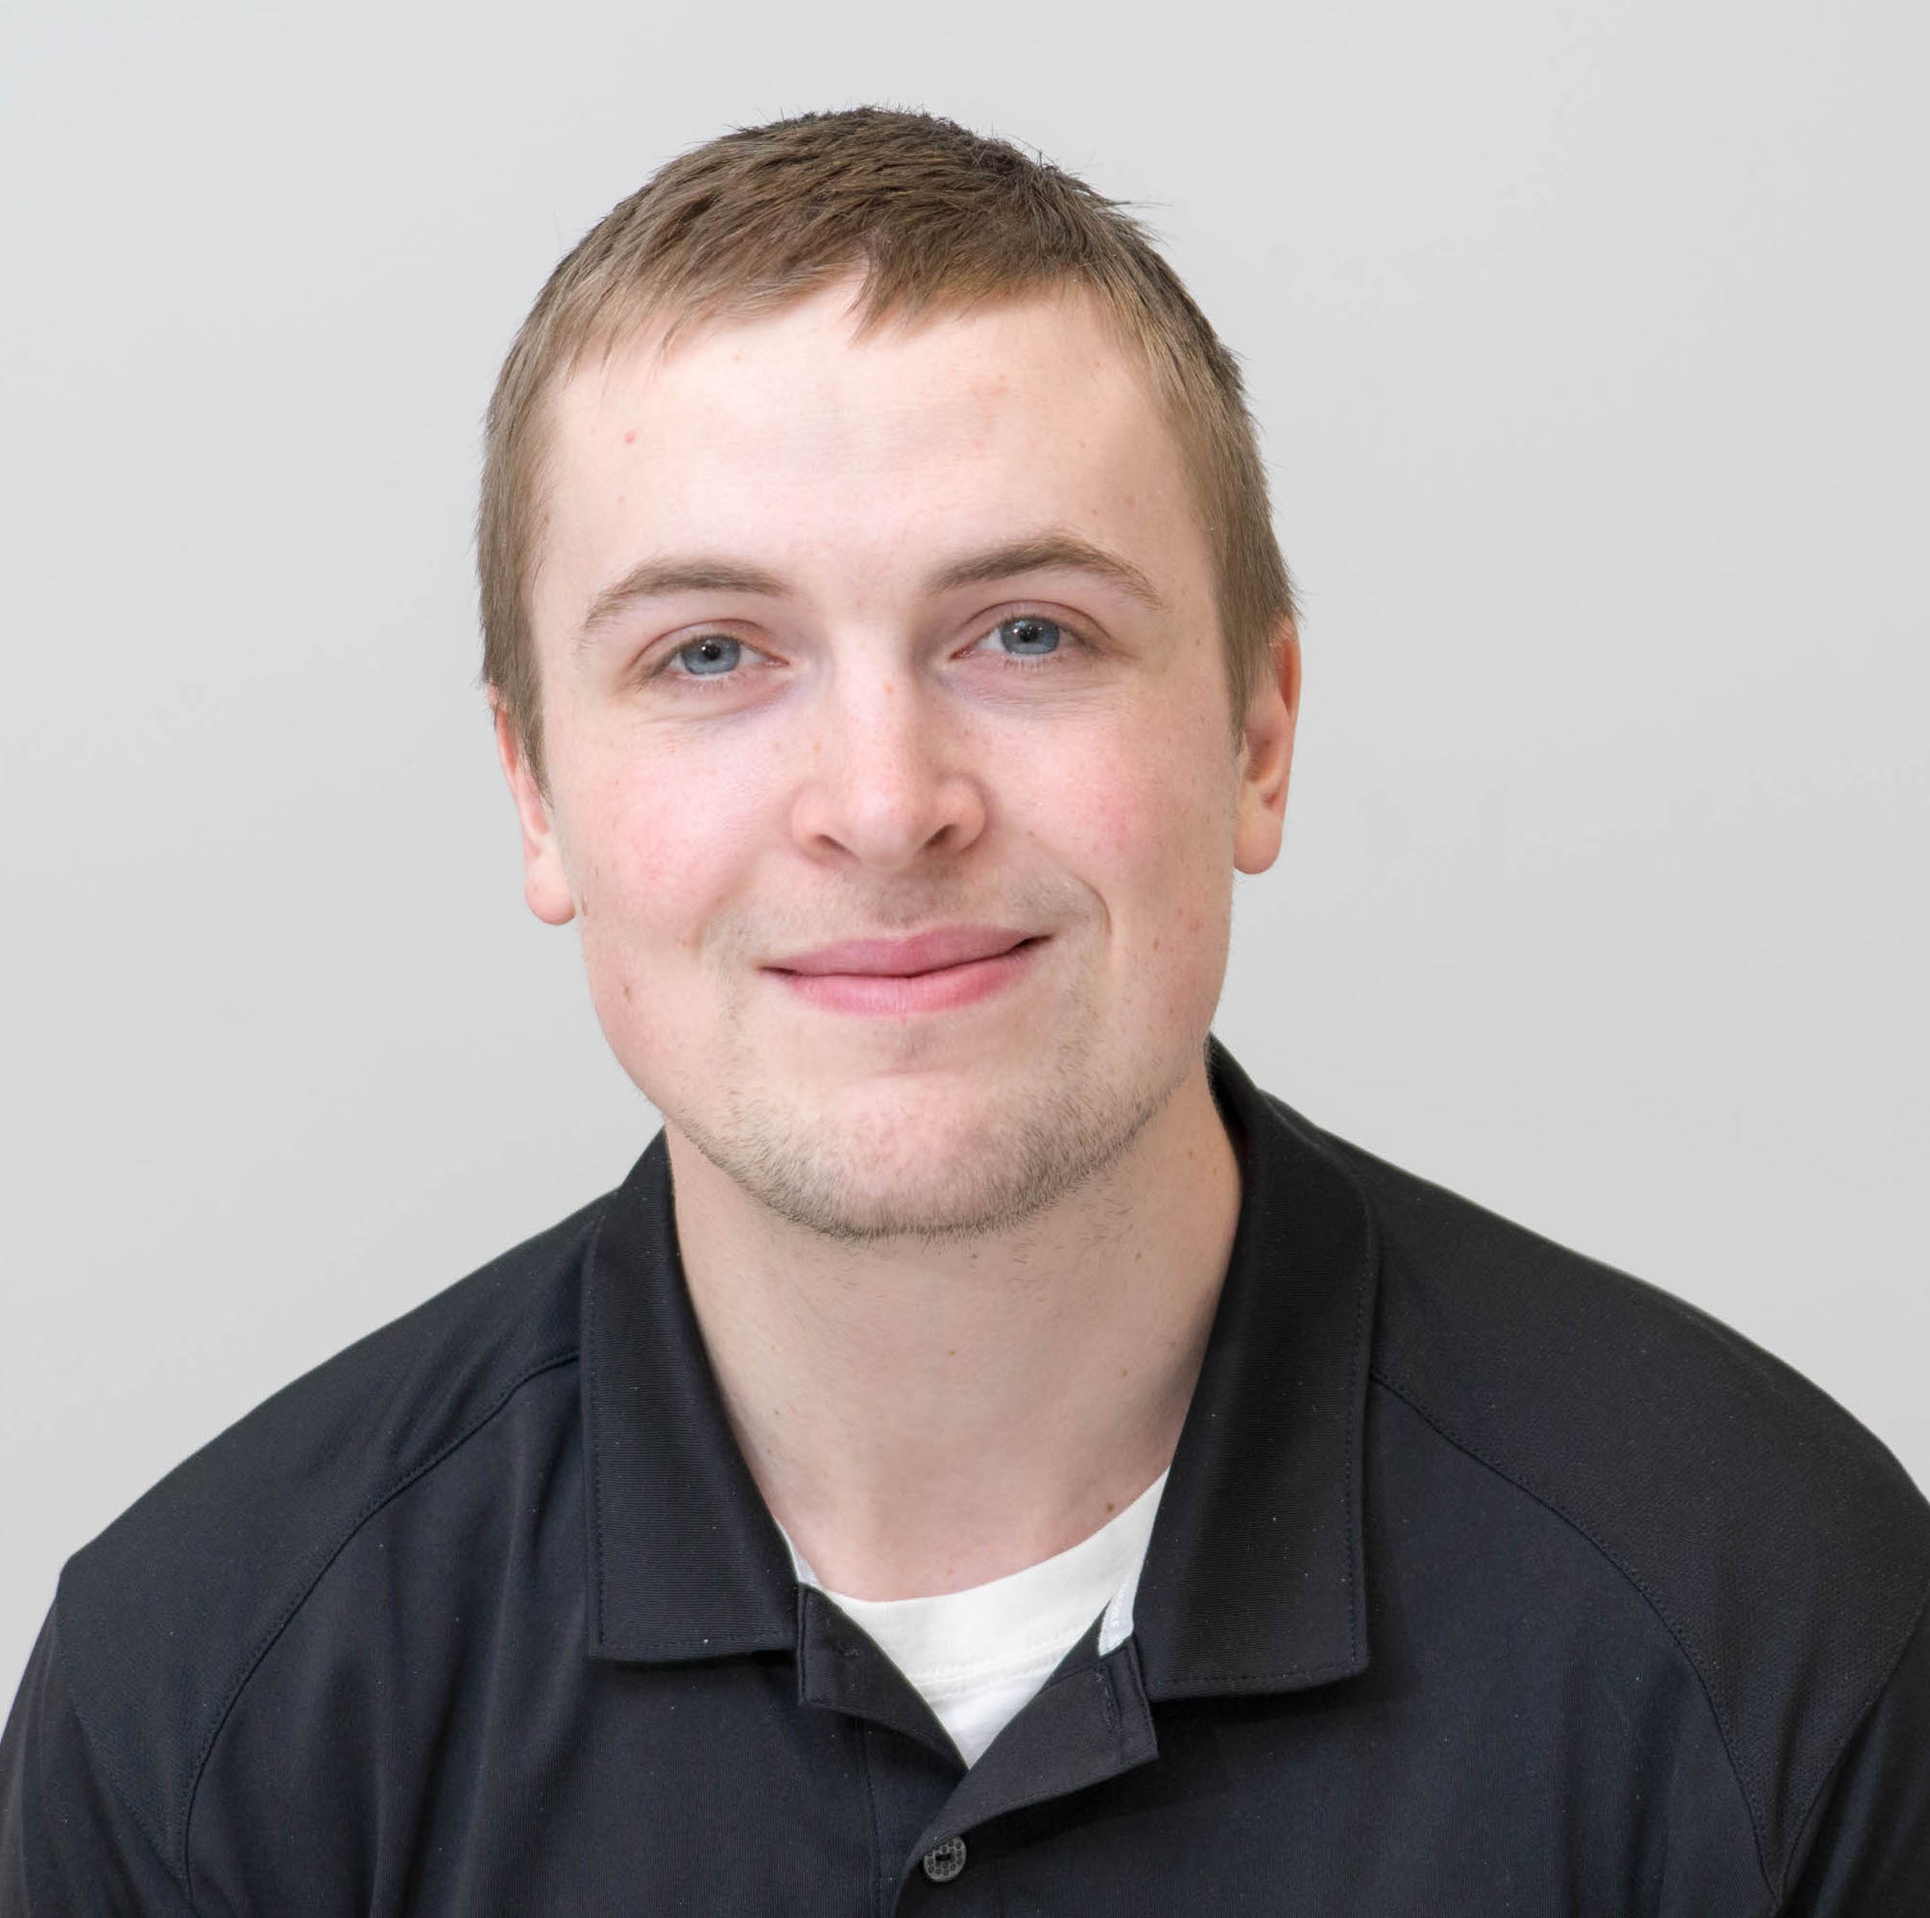
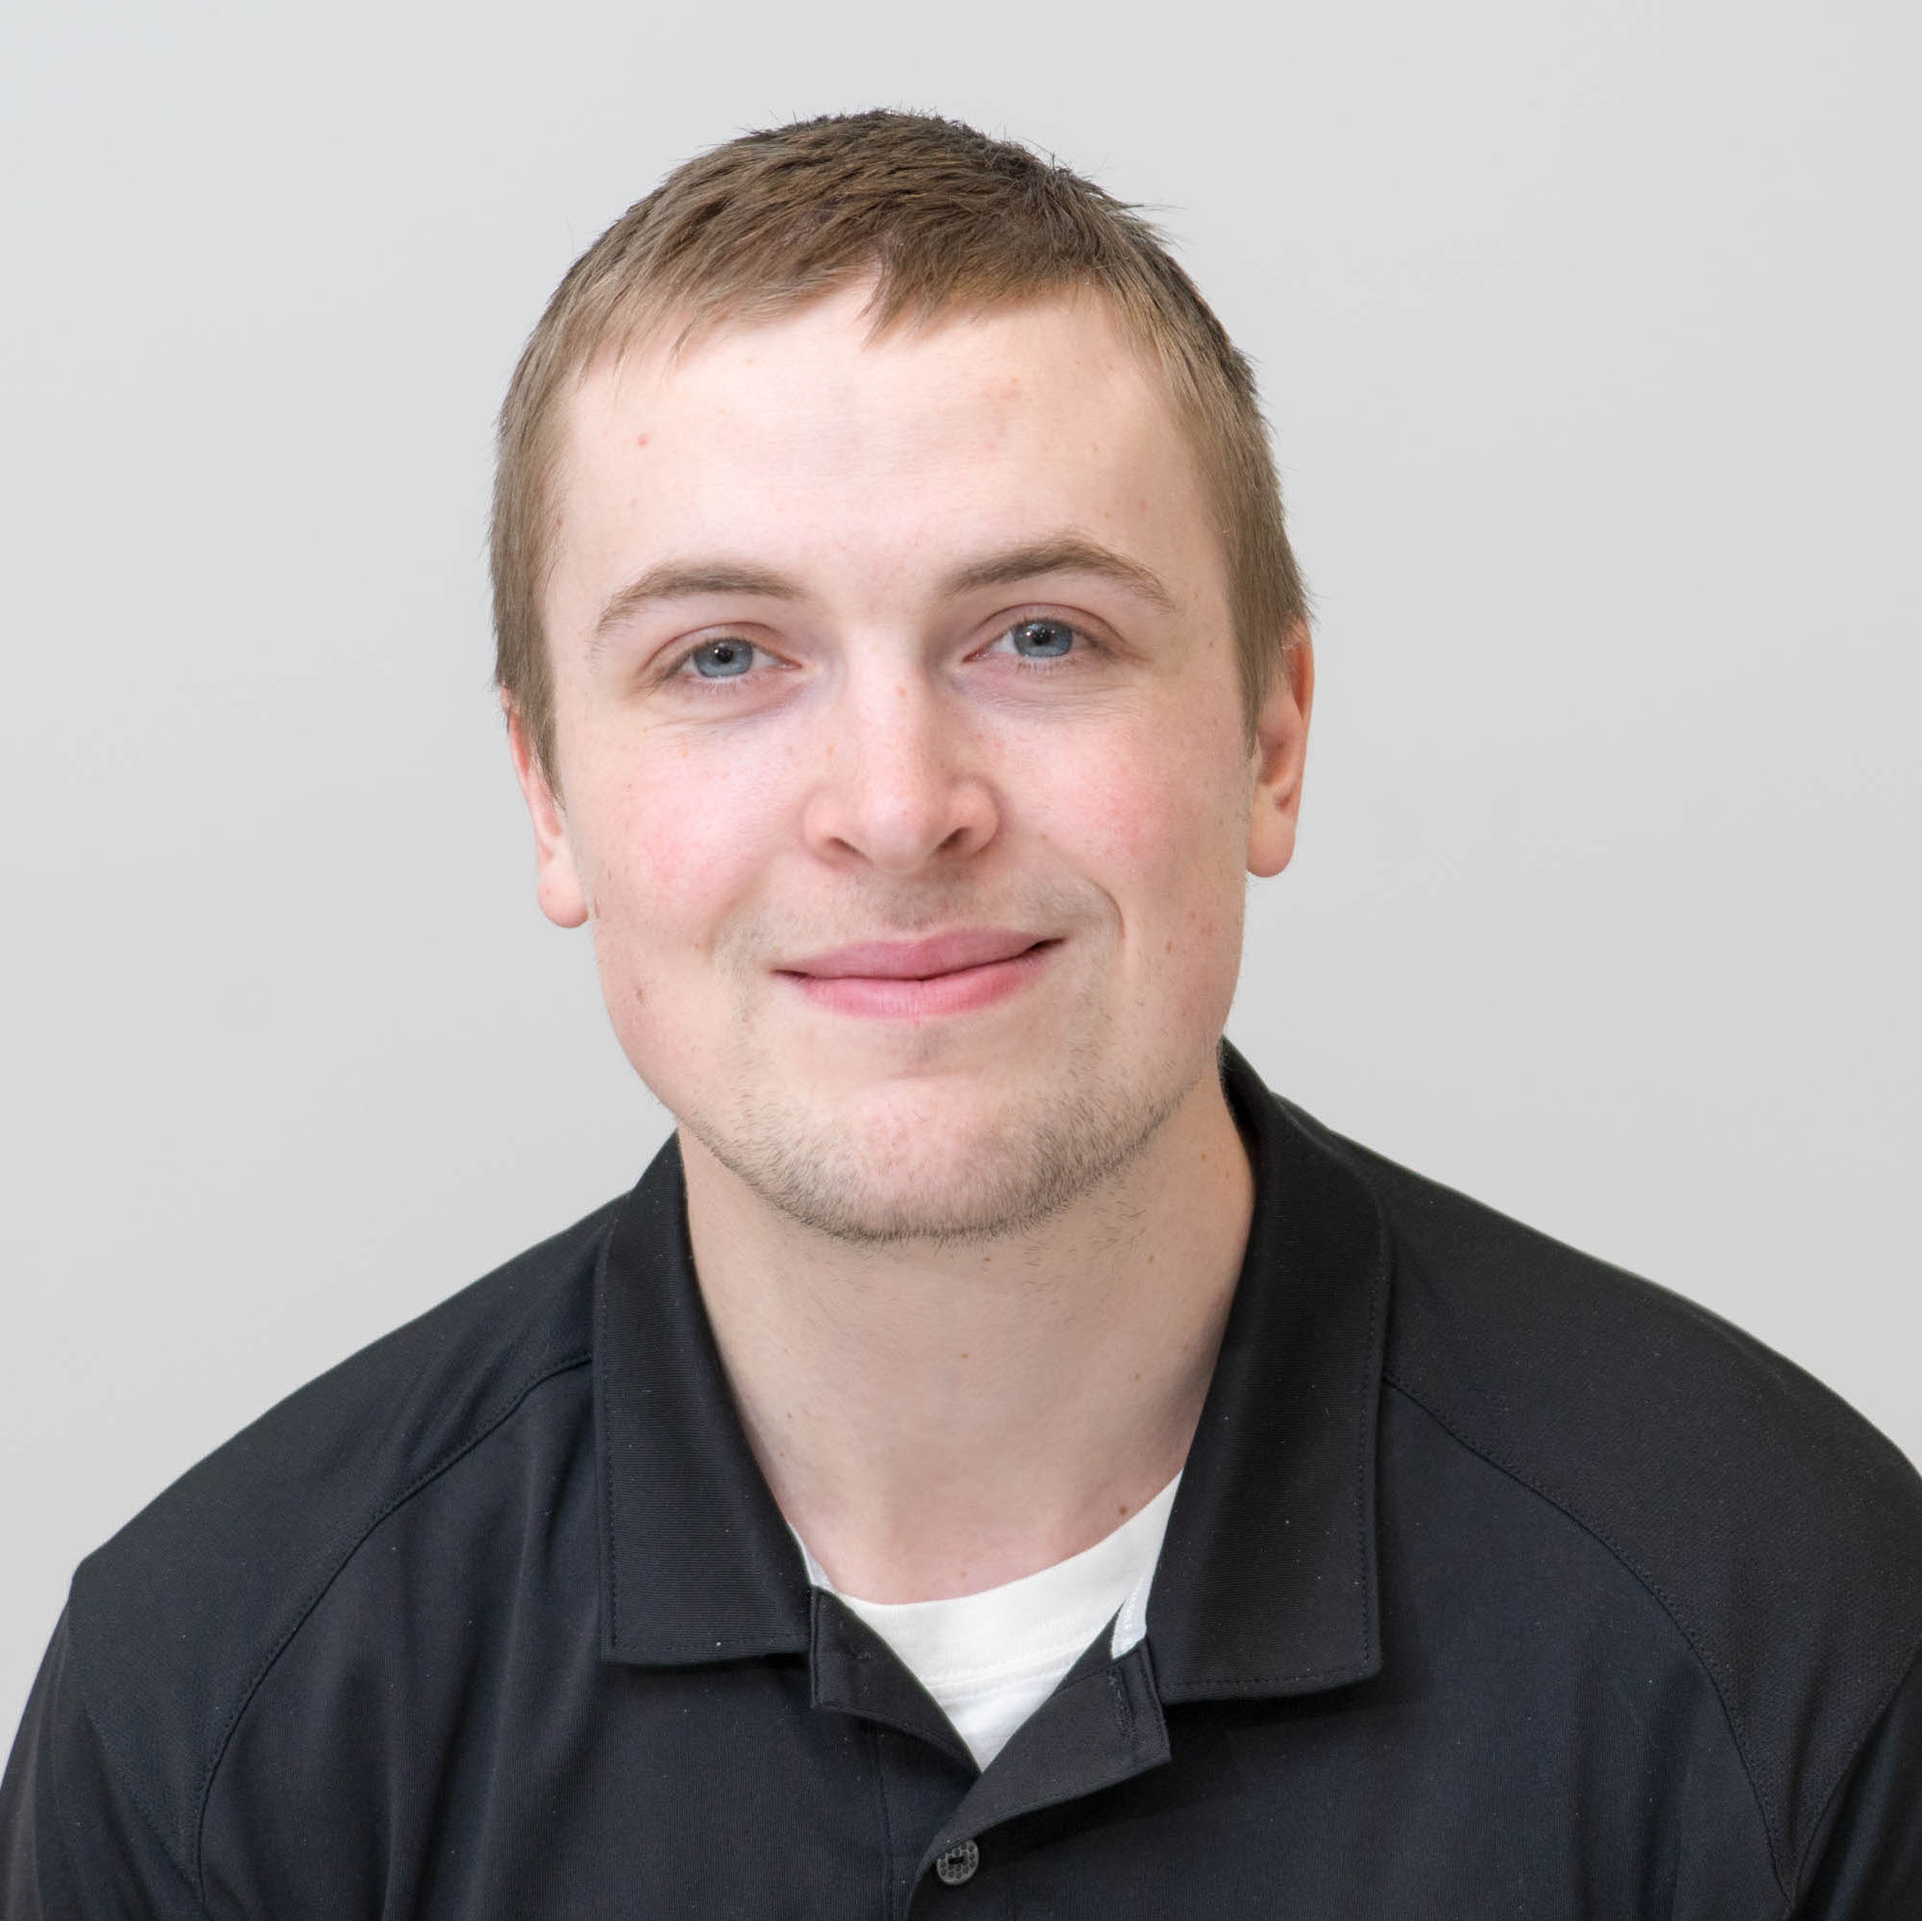
have a little fun with the student photos

diff --git a/src/components/StudentCard/StudentCard.js b/src/components/StudentCard/StudentCard.js
@@ -29,13 +29,22 @@ class StudentCard extends Component {
     this.props.changePage();
   }
 
+  randomNumber = () => {
+    return Math.floor((Math.random()*5) + 1)
+  }
+
   render() {
+
+    let number = this.randomNumber();
+    console.log(number);
+    let imgText= `/images/greg_orvik.${number}.jpg`
+
     return (
       <div className="cardWrapper">
         <Card style={{ maxWidth: "245px", margin: "0 auto"}}>
           <CardMedia
             style={{ height: "250px" }}
-            image="/images/greg_orvik.jpg"
+            image={imgText}
             title='Student Card'
           />
           <CardContent>

diff --git a/src/components/StudentList/StudentList.js b/src/components/StudentList/StudentList.js
@@ -54,7 +54,8 @@ class StudentList extends Component {
             <div>
                 <div id="searchDiv">
                     <h1>Search Students</h1>
-                    <Search style={{height: "30px", width: "30px"}}/><input id="searchInput" type="text" placeholder="Student Name" onChange={this.handleChange} />
+                    <div id="searchIconDiv"><Search id="searchIcon"/></div>
+                    <input id="searchInput" type="text" placeholder="Student Name" onChange={this.handleChange} />
                 </div>
                 
                 <Grid container spacing={32}>

diff --git a/src/components/StudentPage/StudentPage.js b/src/components/StudentPage/StudentPage.js
@@ -99,7 +99,7 @@ class StudentPage extends Component {
                         chartData={this.state.chartData}
                         notes={this.state.notes}
                         goal={this.state.goal}
-                        />
+                    />
                     <Graduate 
                         graduateStudent={this.graduateStudent}
                         studentID={this.props.reduxState.student.studentPageID.id}

diff --git a/src/components/Nav/Nav.js b/src/components/Nav/Nav.js
@@ -23,7 +23,13 @@ class Nav extends Component {
 
   render() {
 
-    const imgPath = `images/${this.props.reduxState.user.welcomeUser.img_path}`;
+    let imgPath; 
+    
+    if (this.props.reduxState.user.welcomeUser.img_path === null) {
+      imgPath = 'images/Insert_Here.jpg';
+    } else {
+      imgPath = `images/${this.props.reduxState.user.welcomeUser.img_path}`;
+    }
 
     return <nav>
     <div className="row">

diff --git a/src/styles/main.css b/src/styles/main.css
@@ -208,6 +208,17 @@ nav {
     font-size: 1em;
 }
 
+#searchIcon {
+    height: 30px;
+    width: 30px;
+    margin-top: 10px;
+}
+
+#searchIconDiv {
+    display: inline-block;
+    margin-top: 20px;
+}
+
 
 /* ------------------------------ */
 /* FORM STYLING */
